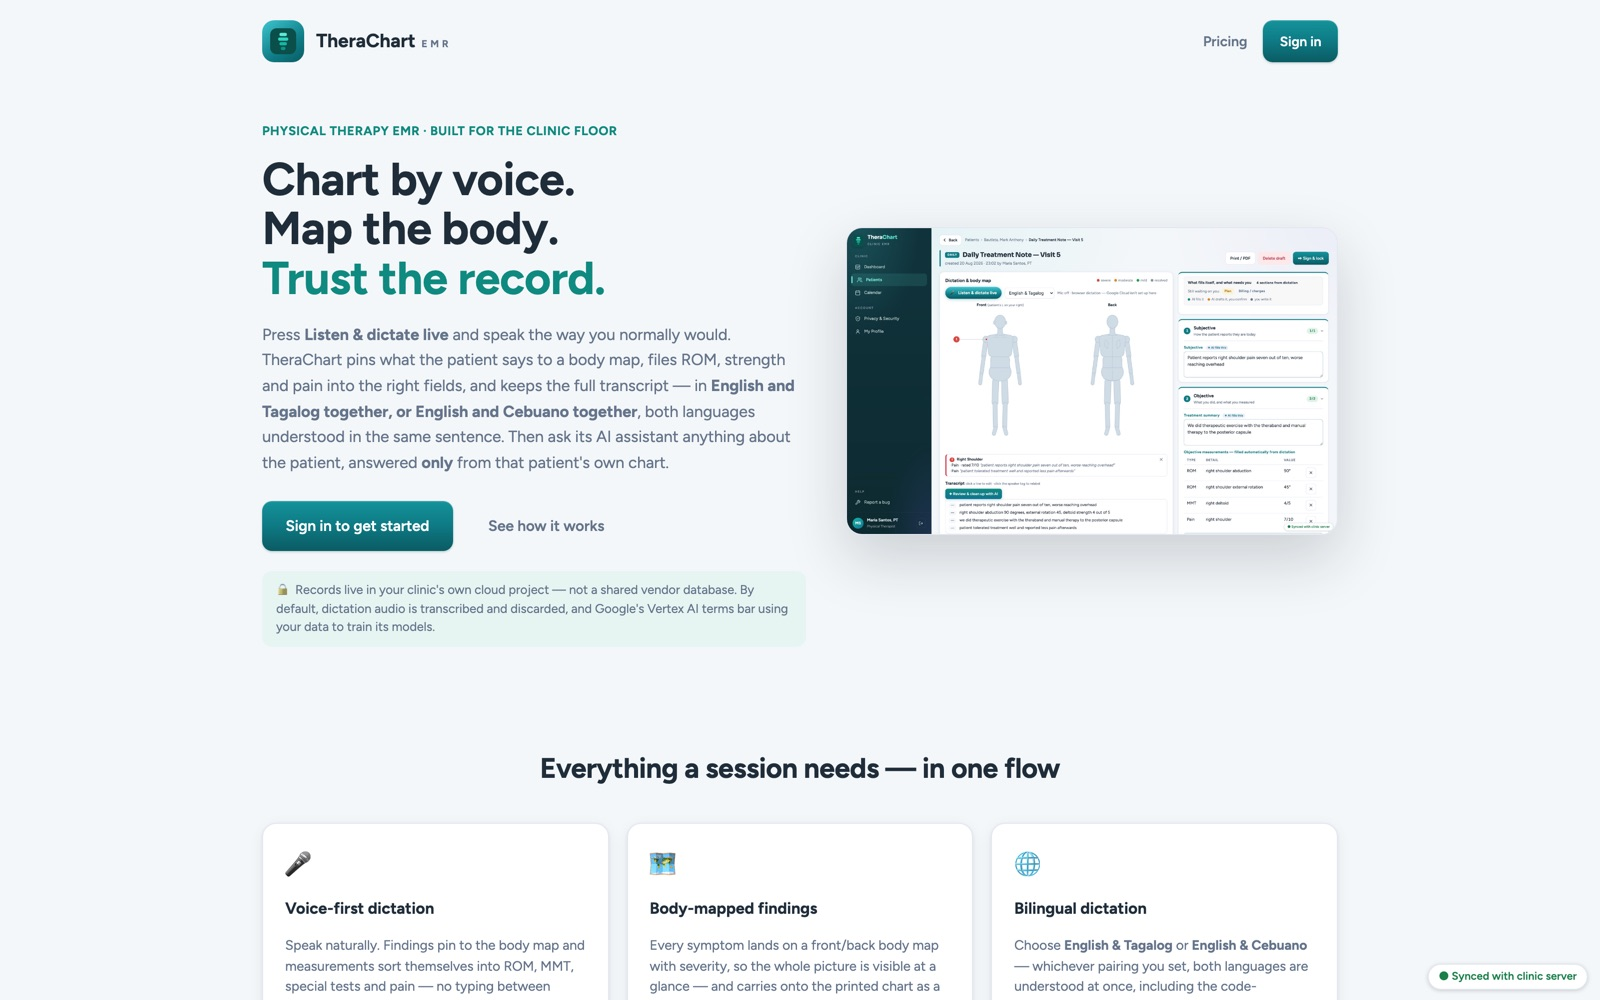
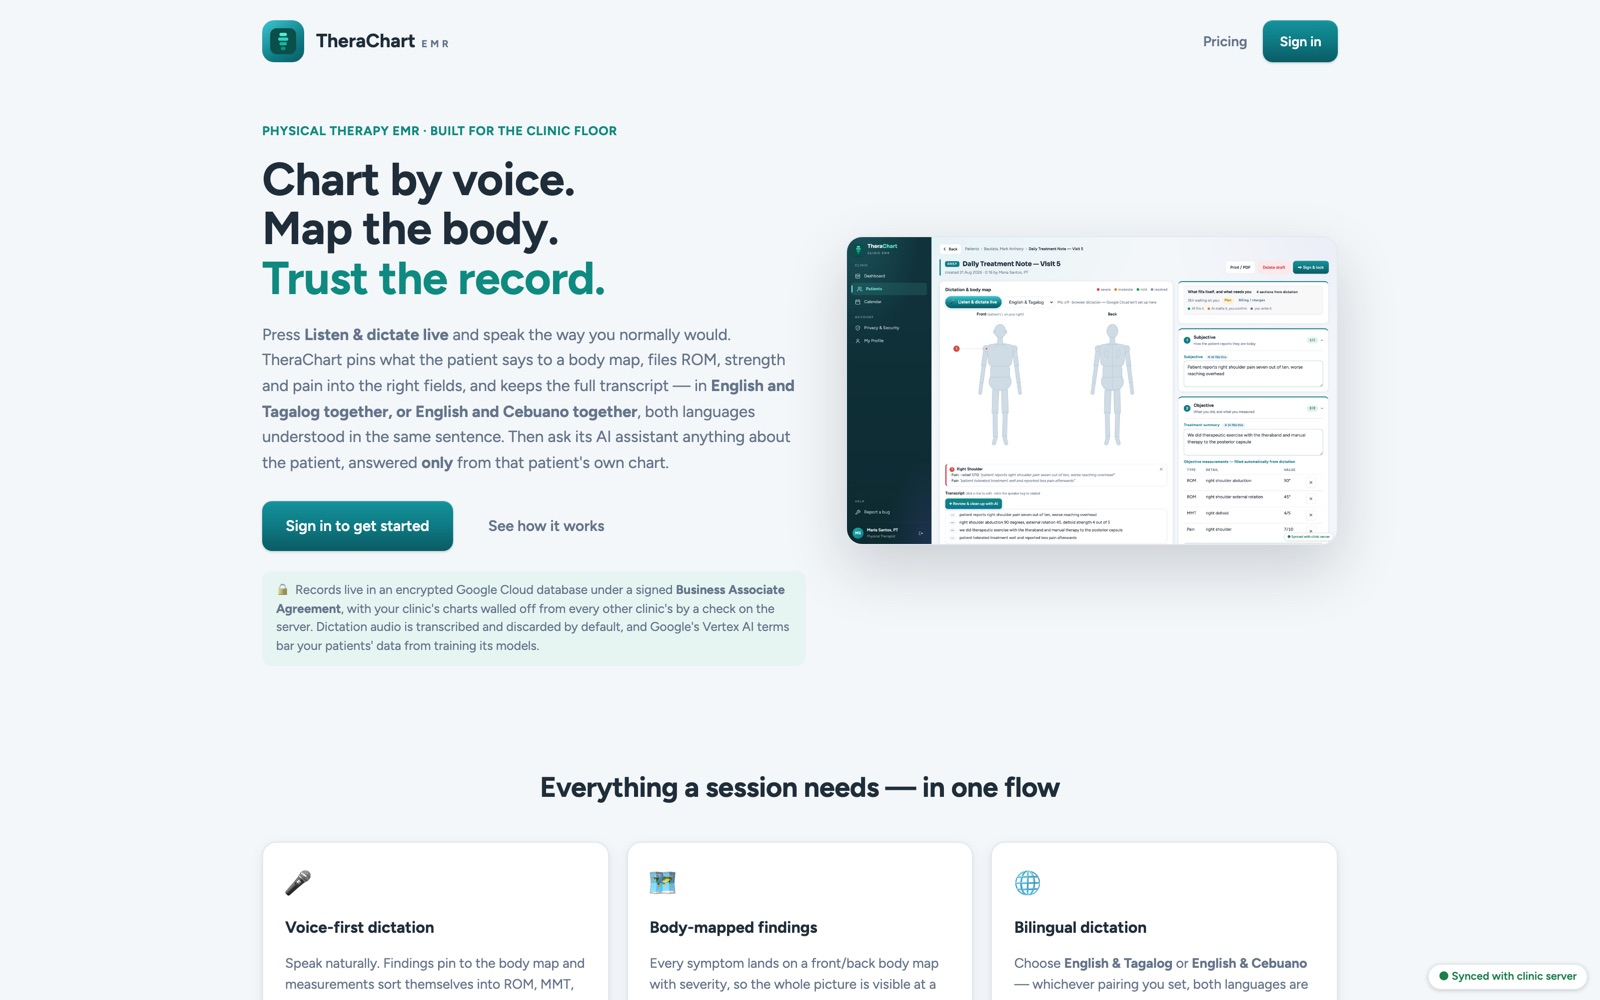
Say where the records actually are, and who signed for them
The landing page and the Privacy panel both described a product we do not sell.
"Records live in your clinic's own cloud project — your database, your storage,
your billing account" is one clinic per Google Cloud project. What runs is one
project with clinics separated by a clinicId check on every read. The isolation
is real — it is the most tested thing in the codebase — but it is tenant
isolation inside our project, not a project per clinic, and a Data Protection
Officer reading that sentence would have been told something untrue about where
their patients' records sit.

The BAA paragraph had the same fault from the other direction: it said a
Business Associate Agreement was "a contract you execute in your own Google
Cloud account, not something this software provides." Under the model we
actually run, the agreement covering Cloud Run, Cloud SQL, Speech-to-Text and
Vertex AI is ours, it is signed, and it is in place before a clinic enters its
first patient. Telling a prospect to go and get one themselves was sending them
after paperwork we already hold.

Both corrected, and the correction is the better pitch. A clinic that has to
negotiate its own BAA with Google before it can start is a clinic that has not
started. What it needs from us instead is the agreement on OUR side of the
chain, so the Privacy panel now names it: under RA 10173 the clinic is the
personal information controller, TheraChart is its processor and Google is
[…]

diff --git a/app.js b/app.js
@@ -759,6 +759,12 @@
   });
 
   function renderLanding() {
+    const privacyPoint = (icon, title, body) => `
+      <div class="lp-privacy-card">
+        <div class="lp-privacy-ico">${icon}</div>
+        <h3>${title}</h3>
+        <p>${body}</p>
+      </div>`;
     const facility = esc(S.currentClinicName());
     const feature = (icon, title, body) => `
       <div class="lp-feature">
@@ -802,7 +808,7 @@
         <button class="btn primary lp-cta-btn" id="lpStart">Sign in to get started</button>
         <button class="btn ghost lp-cta-btn" data-open-walkthrough type="button">See how it works</button>
       </div>
-      <div class="lp-trust">🔒 Records live in your clinic's own cloud project — not a shared vendor database. By default, dictation audio is transcribed and discarded, and Google's Vertex AI terms bar using your data to train its models.</div>
+      <div class="lp-trust">🔒 Records live in an encrypted Google Cloud database under a signed <b>Business Associate Agreement</b>, with your clinic's charts walled off from every other clinic's by a check on the server. Dictation audio is transcribed and discarded by default, and Google's Vertex AI terms bar your patients' data from training its models.</div>
     </div>
     <div class="lp-hero-shot">
       <img src="marketing-screenshots/walkthrough/05-dictation-body-map.jpg" alt="TheraChart dictation and body map" loading="lazy" />
@@ -826,6 +832,45 @@
     <div class="lp-shot"><img src="marketing-screenshots/walkthrough/01-dashboard.jpg" alt="Clinic dashboard" loading="lazy" /><span>Clinic-wide view: today's schedule, unsigned drafts and progress reports due.</span></div>
   </section>
 
+
+  <section class="lp-privacy" id="privacy">
+    <h2 class="lp-section-title">What happens to your patients' data</h2>
+    <p class="lp-privacy-lead">The questions a Data Protection Officer asks, answered before they ask them.
+      Nothing here is a promise about intentions — it is a description of how the software is built, and you can check every line of it from inside the app.</p>
+    <div class="lp-privacy-grid">
+      ${privacyPoint("📜", "A signed BAA is already in place", `
+        TheraChart runs on Google Cloud under an executed <b>Business Associate Agreement</b>, covering every
+        HIPAA-eligible service your records touch — Cloud Run, Cloud SQL, Speech-to-Text and Vertex AI.
+        That contract is signed and active on our account. You do not have to negotiate it, and you do not
+        have to take our word for what it covers: Google publishes the list.`)}
+      ${privacyPoint("🧱", "One clinic cannot see another", `
+        Every record carries the clinic it belongs to, and every read is filtered by the signed-in user's clinic
+        <b>on the server</b> — not hidden in the screen, where a determined browser could go round it.
+        It is the single most tested thing in this application.`)}
+      ${privacyPoint("🎤", "The audio is gone before the note is saved", `
+        Dictation streams to Google Speech-to-Text, comes back as text, and the audio is discarded from memory —
+        only the transcript reaches the chart. A clinic can turn on a short review window for
+        <b>consenting patients only</b>; it is off unless someone deliberately turns it on, and the audio is
+        deleted the moment the note is signed.`)}
+      ${privacyPoint("🚫", "Your patients do not train anyone's model", `
+        Note text sent to Gemini for cleanup or insights is covered by Google's Vertex AI terms, which state
+        that customer prompts and responses are <b>not used to train Google's models</b> and are not sold.
+        The AI only ever suggests — nothing enters a chart until a licensed clinician approves and signs it.`)}
+      ${privacyPoint("⚖", "You stay the controller, in writing", `
+        Under the <b>Data Privacy Act of 2012 (RA 10173)</b> your clinic is the personal information controller
+        for these records and we are your processor, which is a relationship the law expects to be written down.
+        You get that agreement from us on day one, alongside the disclosure you need for the cross-border
+        transfer, since the servers sit in a United States region unless your clinic asks for a closer one.`)}
+      ${privacyPoint("📤", "Leaving is a button, not a negotiation", `
+        <b>Export backup</b> takes the entire record set in an open format, and <b>Erase all data</b> removes it.
+        Neither needs our permission or our help. A clinic that can only leave by asking nicely was never
+        really holding its own records.`)}
+    </div>
+    <div class="lp-privacy-foot">Every notable action — who opened which chart, who signed what, who exported —
+      is written to an activity log your administrator can read and filter. <b>Privacy &amp; Security</b> inside the
+      app states all of this again, including the region your installation actually runs in, read live rather
+      than written into the copy.</div>
+  </section>
 
   <section class="lp-pricing" id="pricing">
     <h2 class="lp-section-title">Pricing</h2>
@@ -7291,9 +7336,11 @@ ${ths.map((t) => {
 
     const items = [
       { emoji: "🔐", title: "Where your data lives & your controls", body: `
-        <p>TheraChart runs on <b>your clinic's own Google Cloud project</b> — your database, your storage, your billing account. It is not a shared vendor system where every clinic's records sit in one pile: your data is yours, and each clinic's records are walled off from every other clinic's by a check on the server, not just in the screen.</p>
+        <p>TheraChart runs on <b>Google Cloud, under a Business Associate Agreement we have signed and hold</b>, covering every HIPAA-eligible service your records touch — Cloud Run, Cloud SQL, Speech-to-Text and Vertex AI. You are not asked to negotiate that contract; it is already in place before your first patient is entered.</p>
+        <p>Your clinic's records are <b>not</b> in one pile with everyone else's. Every record carries the clinic it belongs to, and every read is filtered by the signed-in user's clinic <b>on the server</b> — not hidden in the screen, where a determined browser could go round it. No account can reach another clinic's charts, including ours.</p>
         <p>Records are kept in an <b>encrypted managed database</b> (Cloud SQL for PostgreSQL). Encrypted in transit and at rest, backed up by Google, and reachable only by this application — never over the open internet.</p>
         <p><b>Where, exactly.</b> Unless your clinic chose otherwise at setup, the application and database run in a <b>United States</b> region. For a Philippine clinic that is a <b>cross-border transfer of sensitive personal information</b>, which RA 10173 permits but requires you to disclose and remain accountable for. A closer region (Singapore or Jakarta) can be chosen at deployment — ask your administrator which one you are on.</p>
+        <p><b>Who is who, under RA 10173.</b> Your clinic is the <b>personal information controller</b> for these records. TheraChart is your <b>personal information processor</b>, and Google is ours. The law expects that relationship to be written down, so a data processing agreement covering it comes with your account — ask for it if you have not been sent one.</p>
         <p style="margin-bottom:0">You stay in control: <b>Export backup</b> takes the whole record set with you in an open format, and <b>Erase all data</b> removes it. Neither needs our permission — there is no lock-in.</p>` },
       { emoji: "🎤", title: "Voice dictation", body: `
         <p>When you dictate, the audio streams to <b>Google Cloud Speech-to-Text</b> in ${where(sttLoc)}, which turns it into text and sends it straight back. It is a paid Google Cloud service under your own project — <b>not</b> a free consumer speech service, and not a phone's built-in dictation.</p>
@@ -7320,7 +7367,7 @@ ${ths.map((t) => {
           <li>Keep a record of processing activities, and notify the NPC and affected patients of a breach within the required period</li>
           <li>Retain records for the period required of a Philippine health facility</li>
         </ul>
-        <p style="margin-bottom:0">If your clinic also serves US patients or bills a US payer, <b>HIPAA</b> applies as well and needs a signed <b>Business Associate Agreement</b> with Google — a contract you execute in your own Google Cloud account, not something this software provides. <b>Have your own counsel or DPO confirm all of this</b>; the descriptions here are of what the software does, not legal advice.</p>` },
+        <p style="margin-bottom:0">If your clinic also serves US patients or bills a US payer, <b>HIPAA</b> applies to you as well. The Google side of that is already covered by the BAA we hold; what it additionally needs is a <b>Business Associate Agreement between your clinic and TheraChart</b>, since we process protected health information on your behalf. Ask us for it — it is a routine document and there is no charge for it. <b>Have your own counsel or DPO confirm all of this</b>; the descriptions here are of what the software does, not legal advice.</p>` },
     ];
     return `<div class="info-acc">${items.map((it) => `
       <details class="info-acc-item">

diff --git a/styles.css b/styles.css
@@ -1911,6 +1911,31 @@ a.stat-tile:hover { border-color: color-mix(in srgb, var(--accent) 45%, var(--bo
 .lp-shot img { width: 100%; border-radius: 14px; border: 1px solid var(--border); box-shadow: 0 16px 40px rgba(15, 30, 45, 0.12); }
 .lp-shot span { display: block; font-size: 12.5px; color: var(--muted); margin-top: 10px; text-align: center; }
 
+/* ---- landing: what happens to your patients' data ----
+   Its own section rather than a line under the hero, because a clinic's DPO
+   has more than one question and the answers are the reason to trust the rest
+   of the page. Same card grid as the feature row, one tone quieter. */
+.lp-privacy { padding: 44px 0 8px; }
+.lp-privacy-lead {
+  max-width: 720px; margin: -18px auto 32px; text-align: center;
+  color: var(--muted); font-size: 15px; line-height: 1.65;
+}
+.lp-privacy-grid { display: grid; grid-template-columns: repeat(3, 1fr); gap: 18px; }
+.lp-privacy-card {
+  background: var(--panel); border: 1px solid var(--border); border-radius: 14px;
+  padding: 20px 20px 22px;
+}
+.lp-privacy-ico { font-size: 21px; line-height: 1; margin-bottom: 11px; }
+.lp-privacy-card h3 { font-size: 15.5px; font-weight: 700; margin-bottom: 7px; letter-spacing: -0.15px; }
+.lp-privacy-card p { font-size: 13.5px; line-height: 1.65; color: var(--muted); margin: 0; }
+.lp-privacy-card b { color: var(--ink); font-weight: 650; }
+.lp-privacy-foot {
+  max-width: 780px; margin: 26px auto 0; text-align: center;
+  font-size: 13px; line-height: 1.7; color: var(--muted);
+}
+@media (max-width: 980px) { .lp-privacy-grid { grid-template-columns: 1fr 1fr; } }
+@media (max-width: 700px) { .lp-privacy-grid { grid-template-columns: 1fr; } }
+
 .lp-final { text-align: center; padding: 56px 0 20px; }
 .lp-final h2 { font-size: 30px; letter-spacing: -0.3px; margin-bottom: 10px; }
 .lp-final p { color: var(--muted); font-size: 15px; margin-bottom: 22px; }
